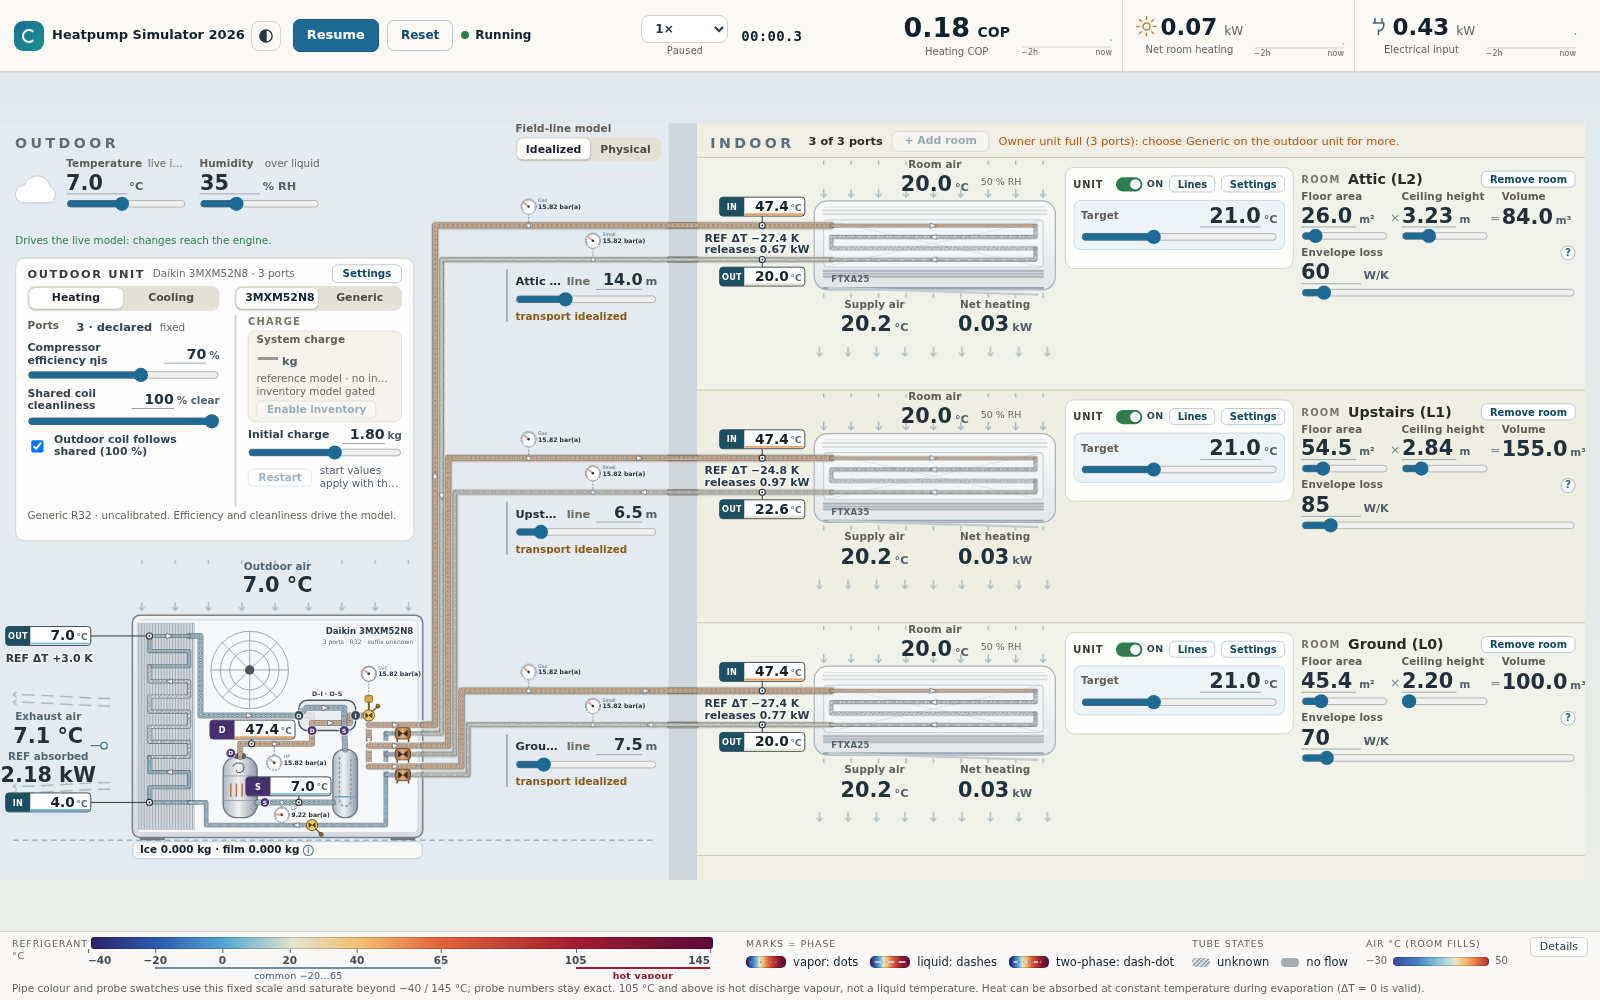
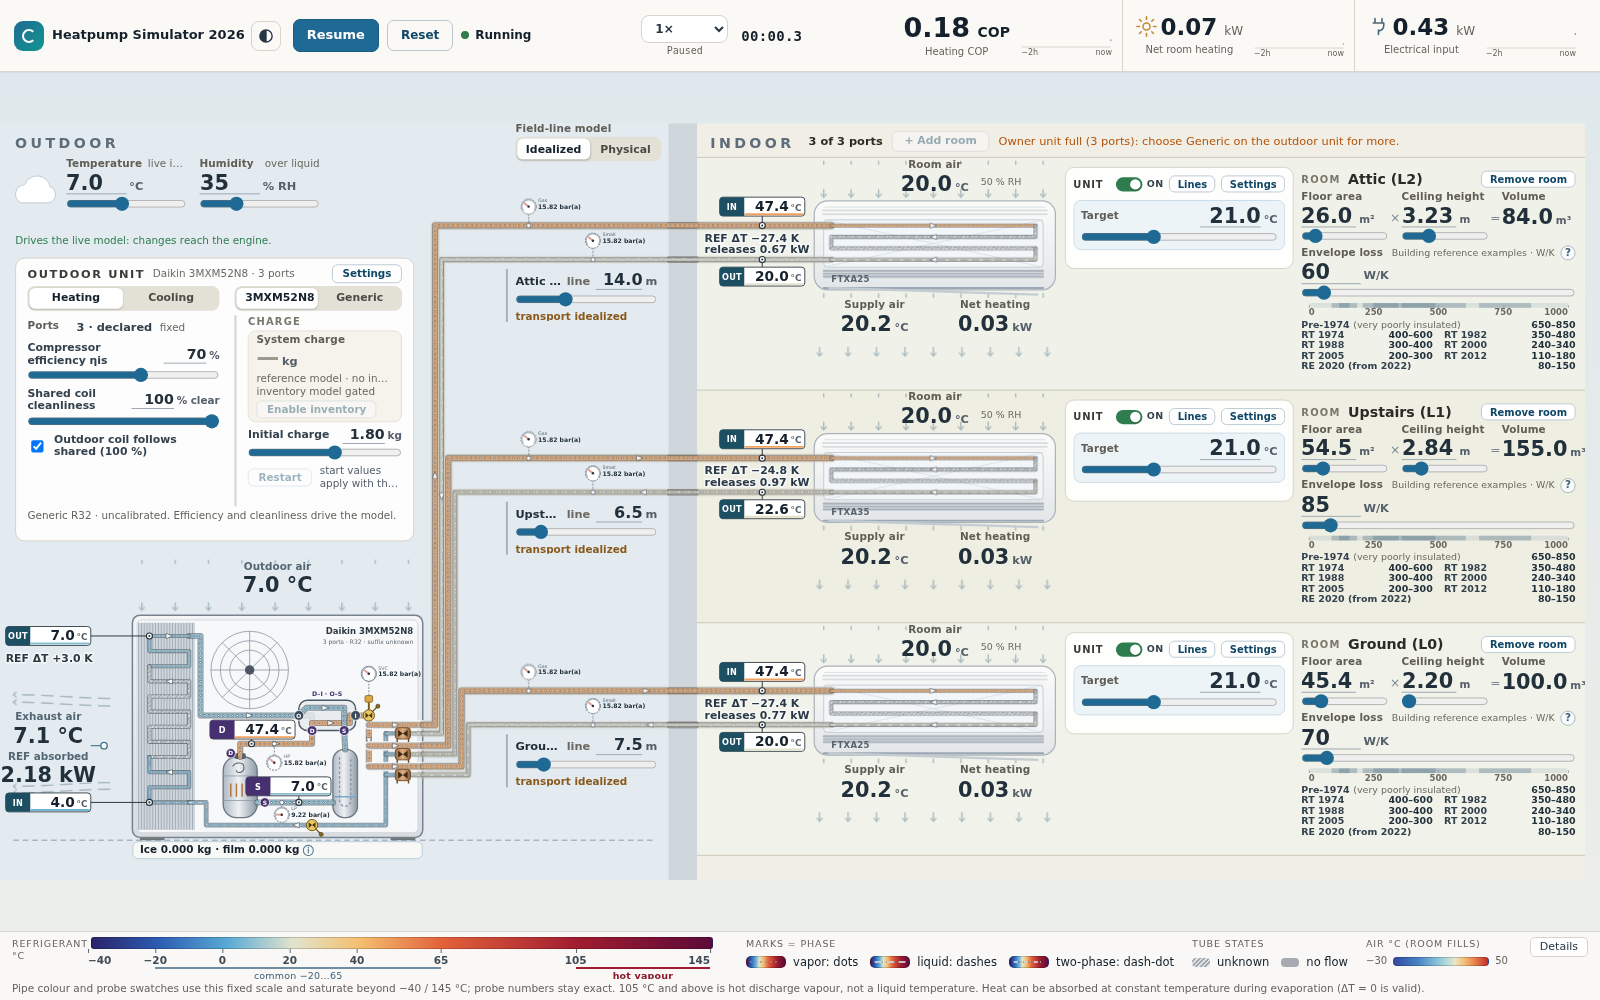
Show all supplied insulation-era ranges beneath every room loss slider

diff --git a/src/settings.ts b/src/settings.ts
@@ -123,10 +123,15 @@ export function pairField(o: PairOpts): PairField {
 
 // ---------- envelope heat-loss guide (local, non-modal help in the scene) ----------
 /** Reference bands supplied for this simulator. Their reference size, boundaries and air exchange are unspecified: never scaled or applied. */
-const HEAT_LOSS_BANDS: ReadonlyArray<readonly [string, string]> = [
-  ['Before 1974', '650–850'], ['RT 1974', '400–600'], ['RT 1982', '350–480'], ['RT 1988', '300–400'],
-  ['RT 2000', '240–340'], ['RT 2005', '200–300'], ['RT 2012', '110–180'], ['RE 2020 (from 2022)', '80–150'],
+export interface HeatLossBand { era: string; note?: string; min: number; max: number }
+/** Single source of the bands: the guide table and the scale under every Envelope loss slider both render from it. */
+export const HEAT_LOSS_BANDS: ReadonlyArray<HeatLossBand> = [
+  { era: 'Pre-1974', note: 'very poorly insulated', min: 650, max: 850 },
+  { era: 'RT 1974', min: 400, max: 600 }, { era: 'RT 1982', min: 350, max: 480 }, { era: 'RT 1988', min: 300, max: 400 },
+  { era: 'RT 2000', min: 240, max: 340 }, { era: 'RT 2005', min: 200, max: 300 },
+  { era: 'RT 2012', min: 110, max: 180 }, { era: 'RE 2020 (from 2022)', min: 80, max: 150 },
 ];
+const bandText = (b: HeatLossBand): string => `${b.min}–${b.max}`;
 
 const HEAT_LOSS_SOURCES: ReadonlyArray<readonly [string, string]> = [
   ['Th-Bat general rules', 'https://rt-re-batiment.developpement-durable.gouv.fr/IMG/pdf/1-fascicule_generalites.pdf'],
@@ -136,6 +141,35 @@ const HEAT_LOSS_SOURCES: ReadonlyArray<readonly [string, string]> = [
 
 /** Envelope loss bounds [W/K]: wide enough for raw illustrative scenarios; no normative default is implied. */
 export const ENVELOPE_LOSS = { min: 0, max: 1000, step: 1 } as const;
+
+/**
+ * Static reference scale for the Envelope loss slider, built once per room: a numeric 0…W/K ruler aligned to the slider track
+ * (inset by the thumb radius) with the eight bands stacked translucently on it, and a key that names every band and range.
+ * The bands overlap, so they are a key, not disjoint slider zones. They are supplied building-reference examples of unspecified
+ * size: never scaled by room size, never a default, no legal performance implied. Nothing here reacts to the slider.
+ */
+export function createLossScale(): HTMLElement {
+  const span = ENVELOPE_LOSS.max - ENVELOPE_LOSS.min;
+  const at = (v: number): string => `${(((v - ENVELOPE_LOSS.min) / span) * 100).toFixed(2)}%`;
+  const ruler = html('div', { class: 'ls-ruler', 'aria-hidden': 'true' },
+    html('div', { class: 'ls-track' }, ...HEAT_LOSS_BANDS.map((b) => {
+      const e = html('i', { class: 'ls-band' });
+      e.style.left = at(b.min);
+      e.style.width = `${(((b.max - b.min) / span) * 100).toFixed(2)}%`;
+      return e;
+    })),
+    html('div', { class: 'ls-ticks' }, ...[0, 250, 500, 750, 1000].map((v) => {
+      const e = html('span', { class: 'ls-tick' }, String(v));
+      e.style.left = at(v);
+      return e;
+    })));
+  const key = html('ul', { class: 'ls-key' }, ...HEAT_LOSS_BANDS.map((b, k) => html('li', { class: k === 0 || k === HEAT_LOSS_BANDS.length - 1 ? 'wide' : '' },
+    html('span', { class: 'ls-era' }, b.era), ...(b.note ? [html('span', { class: 'ls-note' }, `(${b.note})`)] : []), html('b', { class: 'ls-r' }, bandText(b)))));
+  return html('div', {
+    class: 'ls', role: 'group', 'aria-label': 'Building reference examples, W/K',
+    title: 'Supplied building-reference examples for an unspecified reference building. Not scaled by room size, not statutory, never applied automatically.',
+  }, ruler, key);
+}
 
 export interface HeatLossGuide {
   /** The panel; the scene mounts it once, above every room, and places it beside the room it is open for. */
@@ -167,7 +201,7 @@ export function createHeatLossGuide(): HeatLossGuide {
     html('table', { class: 'hl-tbl' },
       html('caption', {}, 'Reference bands supplied for this simulator'),
       html('thead', {}, html('tr', {}, html('th', { scope: 'col' }, 'Construction era'), html('th', { scope: 'col' }, 'Indicative H (W/K)'))),
-      html('tbody', {}, ...HEAT_LOSS_BANDS.map(([era, band]) => html('tr', {}, html('th', { scope: 'row' }, era), html('td', {}, band))))),
+      html('tbody', {}, ...HEAT_LOSS_BANDS.map((b) => html('tr', {}, html('th', { scope: 'row' }, b.note ? `${b.era} (${b.note})` : b.era), html('td', {}, bandText(b)))))),
     html('p', { class: 'hl-note' }, 'Indicative only: the room size, exposed surfaces and air exchange behind these bands are unspecified. They are not RT/RE requirements and are never applied to a room automatically.'),
     sources);
   const guide: HeatLossGuide = {

diff --git a/src/style.css b/src/style.css
@@ -149,6 +149,8 @@
   --hl-line: #e0e4e5;
   --hl-note: #68716e;
   --guide-line: #b6c6d1;
+  --ls-track: rgba(93, 127, 147, 0.14);
+  --ls-band: rgba(70, 104, 125, 0.3);
 }
 
 :root[data-theme="dark"] {
@@ -285,6 +287,8 @@
   --hl-line: #2d3a44;
   --hl-note: #93a4af;
   --guide-line: #3f5465;
+  --ls-track: rgba(143, 179, 201, 0.14);
+  --ls-band: rgba(143, 179, 201, 0.3);
 }
 
 * { box-sizing: border-box; }
@@ -661,7 +665,28 @@ select { width: 100%; padding: 6px 8px; border: 1px solid var(--line); border-ra
 .env-geo .rp-range { height: 16px; }
 .env-op { align-self: center; color: var(--env-op); font-size: 13px; }
 .env-vol { min-width: 0; display: flex; flex-direction: column; gap: 2px; }
-.env-low { display: grid; grid-template-columns: minmax(0, 1fr); align-items: start; gap: 10px; }
+.env-low { display: grid; grid-template-columns: minmax(0, 1fr); align-items: start; gap: 3px; }
+.room-env .pf-head .rp-n { font-size: 10px; }
+/* Reference scale under Envelope loss: ruler aligned to the slider track (8 px = thumb radius inset), bands stacked translucently,
+   then a two-column key. Neutral steel tokens only: insulation never borrows the refrigerant temperature colours. */
+.ls { min-width: 0; display: flex; flex-direction: column; gap: 2px; font: 500 10px/11px var(--font); color: var(--rp-ink); pointer-events: none; }
+.ls-ruler { padding: 0 8px; }
+.ls-track { position: relative; height: 5px; border-radius: 2px; background: var(--ls-track); }
+.ls-band { position: absolute; top: 0; bottom: 0; background: var(--ls-band); }
+.ls-ticks { position: relative; height: 10px; }
+.ls-tick { position: absolute; top: 0; transform: translateX(-50%); font: 600 9px/10px var(--font); color: var(--rp-n); font-variant-numeric: tabular-nums; }
+.ls-tick::before { content: ""; position: absolute; left: 50%; top: -3px; width: 1px; height: 3px; background: var(--rp-num-line); }
+/* The end labels hang inside the ruler (start- and end-anchored) so they never leave the panel; their tick marks stay on 0 and 1000. */
+.ls-tick:first-child { transform: none; }
+.ls-tick:first-child::before { left: 0; }
+.ls-tick:last-child { transform: translateX(-100%); }
+.ls-tick:last-child::before { left: 100%; }
+.ls-key { list-style: none; margin: 0; padding: 0; display: grid; grid-template-columns: 1fr 1fr; column-gap: 12px; }
+.ls-key li { display: flex; align-items: baseline; gap: 4px; white-space: nowrap; min-width: 0; }
+.ls-key li.wide { grid-column: 1 / -1; }
+.ls-era { font-weight: 650; color: var(--rp-ink); }
+.ls-note { color: var(--rp-n); }
+.ls-r { margin-left: auto; font-weight: 700; color: var(--rp-v); font-variant-numeric: tabular-nums; }
 .env-low .rp-num { width: 2.85em; }
 .env-low .rp-range { height: 16px; }
 .hl-btn { border: 1px solid var(--hl-btn-line); border-radius: 50%; width: 16px; height: 16px; padding: 0; font: 700 11px/14px var(--font); color: var(--hl-btn-ink); background: var(--hl-btn-bg); }

diff --git a/src/scene.ts b/src/scene.ts
@@ -10,7 +10,7 @@ import {
 import type { Layout, RoomBox } from './geometry';
 import { CoilNote, Pipe, Probe } from './pipes';
 import type { Pt } from './pipes';
-import { ENVELOPE_LOSS, createHeatLossGuide, createLineLength, createLineModelSwitch, isolate, pairField, weatherScope } from './settings';
+import { ENVELOPE_LOSS, createHeatLossGuide, createLossScale, createLineLength, createLineModelSwitch, isolate, pairField, weatherScope } from './settings';
 import type { HeatLossGuide, LineLengthControl, OutdoorUnitCard, PairField } from './settings';
 import type { Clock } from './state';
 import { ICE_FULL_KG, ICE_START_KG, activeRooms, currentReadings, indoorCleanliness, liveStatus, outdoorCleanliness, store } from './state';
@@ -370,12 +370,14 @@ function roomPanel(i: number, hooks: SceneHooks, guide: HeatLossGuide): RoomPane
     title: 'Envelope heat-loss coefficient. Ventilation is modelled separately.',
   });
   loss.root.querySelector('.pf-head')?.append(guide.button(i));
+  // The supplied reference examples are always visible under the slider; the guide button keeps the full explanation.
+  setText(loss.note, 'Building reference examples · W/K');
   const volumeV = html('span', { class: 'rp-v', 'data-field': 'room-volume' });
   const volume = html('div', { class: 'env-vol', title: 'Derived volume: floor area × ceiling height. Not an input.' },
     html('span', { class: 'rp-k' }, 'Volume'), html('span', { class: 'rp-line' }, volumeV, html('small', {}, 'm³')));
   const sep = (glyph: string): HTMLElement => html('span', { class: 'env-op', 'aria-hidden': 'true' }, glyph);
   // The card is narrow: the "requested" qualifier lives in the tooltip and the accessible name, not in a clipped note.
-  sp.root.title = 'Stops at the requested target; heating restarts 1 °C below it, cooling 1 °C above it. Minimum run/restart times and compressor protection still apply.';
+  sp.root.title = 'Inverter modulates to maintain target; below-minimum loads may cycle. Compressor protection and restart dwell still apply.';
   const air = readCard('Room air', '°C');
   air.root.className = 'env-read flow-in';
   const sup = readCard('Supply air', '°C');
@@ -400,7 +402,7 @@ function roomPanel(i: number, hooks: SceneHooks, guide: HeatLossGuide): RoomPane
   const env = html('div', { class: 'rp env room-env', 'data-block': 'environment' },
     html('div', { class: 'rp-head' }, html('span', { class: 'env-tag' }, 'Room'), name, remove),
     html('div', { class: 'env-geo' }, area.root, sep('×'), height.root, sep('='), volume),
-    html('div', { class: 'env-low' }, loss.root));
+    html('div', { class: 'env-low' }, loss.root, createLossScale()));
   linesBtn.addEventListener('click', () => hooks.toggleLines(i, equip));
   gearBtn.addEventListener('click', () => hooks.toggleRoom(i, equip));
   isolate(sw, swLabel, linesBtn, gearBtn, remove);

diff --git a/src/geometry.ts b/src/geometry.ts
@@ -24,8 +24,11 @@ const RISER_PITCH = 14;
 export const ZONE_W = 939;
 /** Horizontal budget of one room row, from the wall: pipe corridor with probes, unit, equipment block, environment block. */
 export const ROOM_COLS = { corridor: 124, equip: { dx: 389, w: 242 }, env: { dx: 639, w: 290 } } as const;
-/** Panel heights of one room row: equipment card, and the taller unboxed environment (floor area, ceiling height, volume, air, envelope loss). Both fit the five-room row. */
-export const ROOM_PANEL_H = { equip: 108, env: 144 } as const;
+/**
+ * Panel heights of one room row: equipment card, and the taller unboxed environment (name, floor area × height = volume, envelope loss
+ * with its reference ruler and eight-band key). Rows are at least 220 units high for every room count, so 216 fits all of them.
+ */
+export const ROOM_PANEL_H = { equip: 108, env: 216 } as const;
 /**
  * Outdoor connection corridor, right of the risers and left of the wall: one line-length block per branch under its line pair
  * (`lineCtl`) and, above the first room, the shared field-line model switch (`modelCtl`). Blocks sit clear of the pair's pipes.

diff --git a/design/interface-design.md b/design/interface-design.md
@@ -287,6 +287,15 @@ Files: `index.html`, `src/theme.ts` (new), `chrome.ts`, `style.css`, `scene.ts` 
 - Mode and manufacturer class span the width above the two columns; weather stays unboxed above it; OUT.y stays 520. The column gap stays 4 px (6 px collided by 2 px at 1920 × 1080 with the cleanliness override expanded).
 - Budget reclaimed without growing the card or the gaps: padding 7/7 → 6/7, head 22 → 20, modes margin 3 → 2, charge card padding 4 → 3 and its value 26 → 24 px, button margin 3 → 2: about 7 px of headroom for the longer column. Not measured here.
 
+### Envelope-loss reference scale (every room, permanently visible)
+- **Where.** Directly under each room's Envelope loss slider in the unboxed room environment block (`createLossScale()` in `settings.ts`, built once per room with the panel, never rebuilt, no event handlers; the slider keeps native behaviour and nothing here touches focus, zoom or the engine). The slider header reads `Envelope loss · Building reference examples · W/K` plus the existing `?` guide button.
+- **Data.** One exported `HEAT_LOSS_BANDS` (era, optional note, min, max) feeds both the scale and the guide table. Bands as supplied: Pre-1974 (very poorly insulated) 650–850, RT 1974 400–600, RT 1982 350–480, RT 1988 300–400, RT 2000 240–340, RT 2005 200–300, RT 2012 110–180, RE 2020 (from 2022) 80–150 W/K. Unspecified building size and boundaries: not scaled by room size, not a default, not statutory, never applied; the group's tooltip and accessible name say so.
+- **Layout.** (1) A numeric ruler 0–1000 W/K (the slider's range) with ticks and labels at 0, 250, 500, 750, 1000, inset 8 px each side to match the native thumb travel, and the eight bands stacked as translucent neutral steel (`--ls-band`) in one 5 px lane, so overlaps read darker. (2) A key naming every band: Pre-1974 with its note on a full-width row, then six RT eras in two columns and RE2020 in a full-width row, era left and range right-aligned in bold tabular figures; 10 px text, 5 rows of 11 units. No refrigerant temperature colours.
+- **QA correction.** The `0` and `1000` ruler labels are start- and end-anchored (ticks stay at exactly 0 and 1000 of the track), so the 1000 text cannot overflow the panel; RE 2020 is a full-width key row like Pre-1974 (still 5 rows).
+- **Space.** `ROOM_PANEL_H.env` 144 → **216**. Rows are at least 220 units for every room count (default 3 rooms: 246), so it fits 1–8 rooms; `equip` 108, OUT.y 520, the 300 outdoor card and the scene height are unchanged, so the 1280 × 720 no-scroll fit is unaffected. The environment's name row, floor area × height = volume row and Remove room stay above the slider; the airflow readouts are separate panels, not in this block.
+- **Also.** The target tooltip now reads: "Inverter modulates to maintain target; below-minimum loads may cycle. Compressor protection and restart dwell still apply."
+- **Verification.** Build passed. Three focused browser checks verified every supplied name/range, containment across 32 desktop-size/room-count/theme combinations, and retained focus, zoom and physical state during loss edits. Ten existing navigation checks and five zoom/history checks across 64 combinations also passed. See `reviews/loss-scale-browser-results.json`.
+
 ### For root's checks
 - Both themes at 1280 × 720, 1440 × 900, 1920 × 1080 with 1, 3, 5 rooms and each zoom; header controls inside the viewport at 1280 (theme control adds 36 px; the name is hidden there); `.hm-trend` height ≥ 40 and left of the value; outdoor card with the override expanded in both themes.
 - Dark theme: probe leaders over the white casing (contrast about 3.3:1), chip text on the brighter chips, gauge readout beside the branch gauges, hot-vapour bracket text, room washes at 0.3, dust/ice on the white fins.

diff --git a/PROGRESS.md b/PROGRESS.md
@@ -26,6 +26,7 @@ Updated 2026-10-11. This is the current implementation checkpoint; detailed evid
 
 - **Inverter comfort control, locally verified:** replaced target-triggered shutdown in the Reference model with sensible-loss feed-forward and bounded room feedback, preserving independently solved heat exchange, actuator limits, protection, defrost and physical state. Conventional fixed-speed thermostat control is a separate strategy. Final guarded regression passed52/52 in281.85s; independent science review accepted the frozen source. Balanced-load heating operated continuously across target for600s; the exact owner's cold two-head configuration also ran600s without fault or reset, without claiming settled targets. Below-minimum-load cycling remains physically necessary. Evidence: `reviews/inverter-reference-regression-results.json`, `research/inverter-control-validation.json` and `reviews/inverter-control-science-review.md`.
 - **Interface refinement, locally verified:** Sonnet 5.5 implemented System/Light/Dark themes with persistent explicit overrides. Headline graphs sit to the right of values; compact outdoor controls reclaim enough space for the default three-room overview without scrolling. Build and two history checks pass, with five theme checks, five zoom/history checks across64 viewport/count/zoom combinations, and ten zone-navigation checks. Theme changes preserve physical state and fixed temperature scales; unavailable storage retains page-local choices. This interface milestone can publish independently of the pending inverter changes.
+- **Permanent loss-reference scale, locally verified:** Sonnet added a numerical 0–1000 W/K ruler and all eight supplied era bands directly beneath every room loss slider. Pre-1974 and RE2020 use full-width key rows; endpoint labels remain inside their room. Three browser checks passed across 32 viewport/count/theme combinations, retaining focus, room zoom, static reference elements and accepted physical state on loss edits. Build and the existing ten navigation checks pass. Evidence: `reviews/loss-scale-browser-results.json`.
 - **Simulation speed:** pacing and exact-backend improvements are complete and verified. Requested 50× active heating remains CPU-limited, with achieved speed shown beside the selector. Physical piping and experimental inventory workloads have separate performance limits.
 - **Experimental charge physics:** the reviewed isentropic integral resolved the saved 11 s rejection. The single frozen-checkpoint continuation reached 48.5 s with 0.0001067 kg of naturally deposited ice, then stopped at its unchanged density-evaluation work limit. Exact rollback passed, but reversal, thaw, drainage and useful heating return did not. Runtime was 584.4 wall seconds for 37.5 accepted simulated seconds. The full final checkpoint is retained for diagnosis without repeating warmup: `research/charge-frost-continuation-progress.json`.
 - **Owner-layout startup:** conserved-state inspection identifies uniform cold phase allocation and homogeneous outlet transport as coupled uncertainties. The independent review conceptually accepted the bounded phase-allocation/valve-start comparison proposed in `research/owner-startup-diagnosis.md`; it has not been run or accepted as a remedy.

diff --git a/README.md b/README.md
@@ -48,6 +48,8 @@ Future conventional equipment can select the separate fixed-speed `on-off` strat
 
 A single header groups Pause, Reset and operating status together. Bold inline COP and electrical/useful-output power retain small labels below, with vector plug and sun/snowflake symbols. Measurements and common controls live on the diagram; source selection and unique model diagnostics live in the outdoor unit settings. Speed uses a compact dropdown. Click the outdoor or indoor zone, or a room, to zoom; use Zoom out or Escape to return. Outdoor fans use a static grille and indoor heads show a horizontal outlet with slats. Indoor coils span almost the full casing width with a 5% right-side margin. Room-air temperature sits in the inlet streams; supply temperature and net heating/cooling power sit in the outlet streams, directly on the background. Vector airflow exits the outdoor unit to the left and indoor units downwards, with plain outdoor inlet/exhaust-air temperatures and refrigerant coil heat beside the leftward exhaust. Flow lines leave gaps around the values. Room volume is calculated from floor area and ceiling height (2.2–6 m); the envelope-loss help retains the supplied era bands with their unknown reference size clearly identified. Airflow cues follow actual fan operation; mechanical blade rotation is omitted.
 
+Every envelope-loss slider has a permanent 0–1000 W/K ruler and all eight supplied Pre-1974 through RE2020 reference bands directly below it. Overlapping ranges share a neutral reference track, with exact names and numbers in a compact key. These are building examples of unspecified reference size, not statutory room defaults; no standard is applied or scaled automatically. The full explanation remains beside the slider.
+
 In Examples, readings come from explicitly constructed R32 fixtures. Changing configuration does not recalculate heat, COP, pressures or outlet temperatures. Only the illustrative preview clock and ice→retained-liquid ledger advance.
 
 Dragging weather/room-target controls or requesting indoor On/Off keeps the last completed physical readings visible, explicitly labelled until the next simulation step. Paused edits wait for Resume without advancing simulation time. Mode and structural changes withhold incompatible readings. Pipe interiors encode temperature across their width; separate monochrome marks show vapor, liquid or two-phase fluid. Materialized refrigerant probes display actual inlet/outlet temperatures on exchangers and compressor suction/discharge, including truthful zero temperature change during evaporation. The permanent refrigerant legend spans −40…145°C; air fills use a separate −30…50°C scale. Casing dimension annotations are omitted while equipment proportions remain consistent.

diff --git a/tools/claude-loss-scale-fit-prompt.md b/tools/claude-loss-scale-fit-prompt.md
@@ -1,0 +1,1 @@
+Focused Sonnet5.5 QA follow-up. Your loss scale build passes and all10 existing zone checks pass. New actual-browser checker confirms all eight supplied bands permanently present beneath slider, but finds the ruler's 1000 text overflows room foreignObject at1280x720 by2.8pixels (one-room case), because centered25-unit text exceeds8-unit thumb inset. Fix first/last tick text anchoring as needed so text stays inside while actual ticks stay aligned to numeric0..1000/native thumb. Edit only src/style.css/src/settings.ts and design/interface-design.md if useful; no engine, no root scripts, no Bash/commit. Also make RE2020 key row full-width like Pre-1974: it is currently the seventh/odd entry in a two-column layout and its long name crowds80–150; full-width uses the same fifthrow height. Preserve defaultno-scroll, all eight names/numbers, 216envgeometry, theme tokens and nativecontrols. Root will rerun actualbrowserchecks. This is a small correction, not a redesign.
